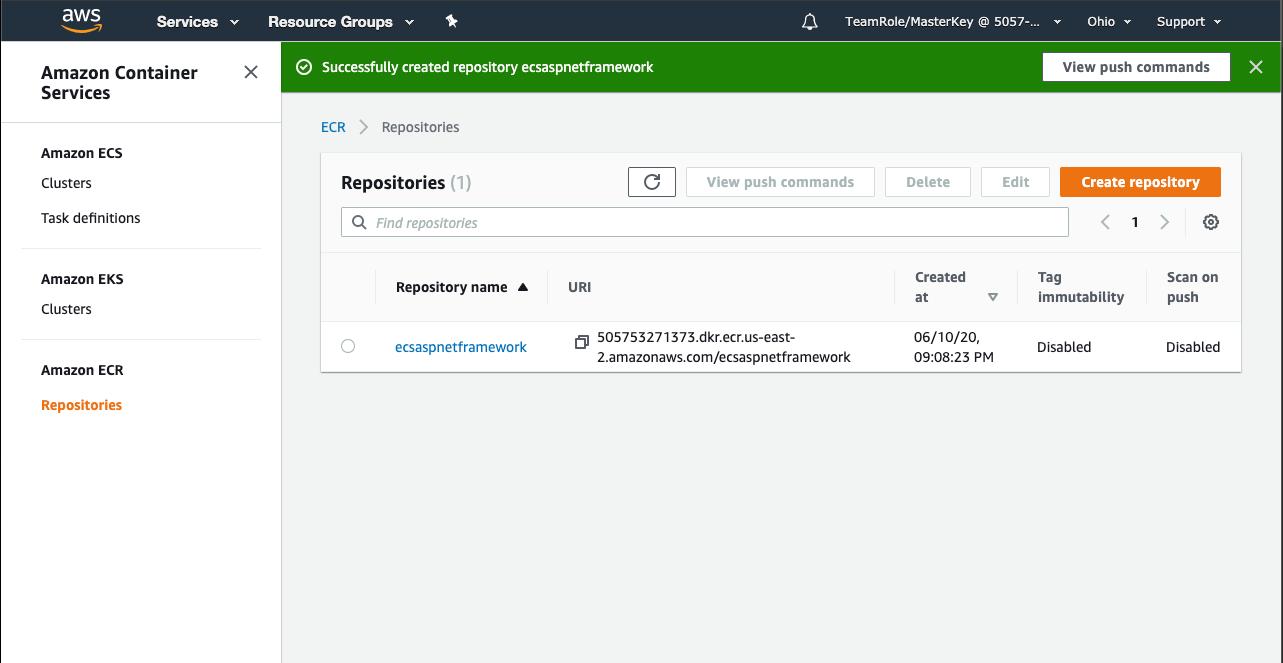
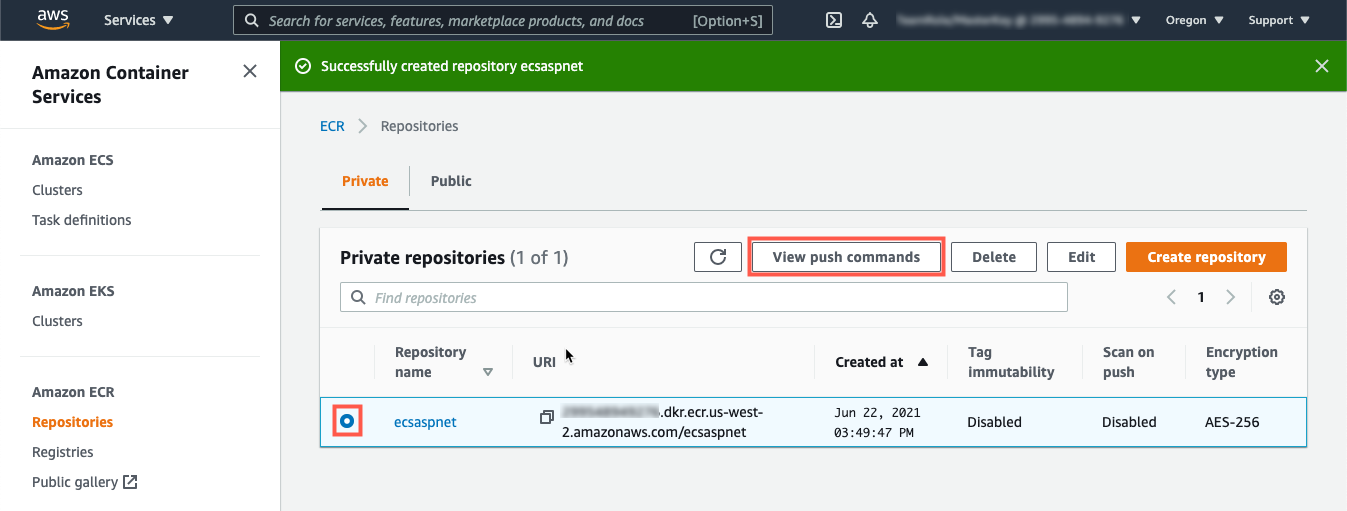
Updated to latest VS and ECS version

diff --git a/workshop/content/ecs-windows/publish-and-launch-ecs.md b/workshop/content/ecs-windows/publish-and-launch-ecs.md
@@ -4,77 +4,71 @@ chapter: false
 weight: 13
 ---
 
-
-
-
-
-Navigate to the ‘ECS-ASPNET’ project and right click and click ‘Publish’
-![publish-image](/images/ecs-windows/publish-image.png)
-
-Under Publish Target select ‘Container Registry’ and choose the Custom radio button and click ‘Create Profile’. If prompted for a registry URL simply put localhost
-![publish-container-registry](/images/ecs-windows/publish-container-registry.png)
-![publish-localhost](/images/ecs-windows/publish-localhost.png)
-
-Click 'Publish'
-![publish-localhost](/images/ecs-windows/publish-localhost.png)
-
-Navigate to the Amazon Elastic Container Registry service in the console. Create a new Amazon ECR repository for your image:
+Navigate to the Amazon Elastic Container Registry service in the console. Create a new Amazon ECR repository named `ecsaspnet` for your image:
 
 ![publish-ecr](/images/ecs-windows/publish-ecr.png)
 
 ![publish-ecr-listing](/images/ecs-windows/publish-ecr-listing.png)
 
-Click the ‘View push commands’ button at the top of the screen. If you don’t see that button, click your repository name (ex: ecsaspnet) then ‘View push commands’ (We will only use commands 3 and 4 from this pop-up)
+Click the ‘View push commands’ button at the top of the screen. 
 ![publish-ecr-push-commands](/images/ecs-windows/publish-ecr-push-commands.png)
 
-Open a Command Prompt or PowerShell **as an Administrator** and login to ECR (Modify the region if necessary) 
+Open a PowerShell **as an Administrator** command prompt and *execute the commands listed in the above dialog* from the ECS-ASPNET project's folder. Unless changed, it should be C:\Users\Administrators\source\repos\ECS-ASPNET\ECS-ASPNET.
 
 ```
-aws ecr get-login --no-include-email --region us-east-2
+cd C:\Users\Administrator\source\repos\ECS-ASPNET\ECS-ASPNET
+
+aws ecr get-login-password --region us-west-2 | docker login --username AWS --password-stdin <ACCOUNT ID>.dkr.ecr.us-west-2.amazonaws.com
+
+docker build -t ecsaspnet .
+
+docker tag ecsaspnet:latest <ACCOUNT ID>.dkr.ecr.us-west-2.amazonaws.com/ecsaspnet:latest
+
+docker push <ACCOUNT ID>.dkr.ecr.us-west-2.amazonaws.com/ecsaspnet:latest
+
 ```
 
-![publish-docker-login](/images/ecs-windows/publish-docker-login.png)
+You should see output similar output to:
 
-Enter the Docker log-in command from the last step
+![publish-to-ecr-complete](/images/ecs-windows/publish-to-ecr-complete.png)
 
-![publish-docker-login-succeed](/images/ecs-windows/publish-docker-login-succeed.png)
-
-You should see a similar output when the login is successful.
-
-Now we have to tag the container image was built in the local development environment with the ECR repository. Use the syntax from item #3 in the push commands pop-up window. For this example, we’ll use the :latest tag.
-
----
-**NOTE**
-
-In production, it is strongly recommended to use a tagging strategy based on SemVer or repo commit hashes to avoid confusion
-
----
-
-**Example**
-```
-docker tag ecsaspnetframework:latest 505753271373.dkr.ecr.us-east-2.amazonaws.com/ecsaspnetframework:latest
-```
-
-Now we need to run the docker push command to push the newly created image to the ECR repository (item #4 in the push commands pop-up window).
-
-**Example**
-```
-docker push 505753271373.dkr.ecr.us-east-2.amazonaws.com/ecsaspnetframework:latest
-```
-![publish-push](/images/ecs-windows/publish-push.png)
-
-Record the image name and tag for the CloudFormation in the final step below
+Record the ECR tag from the docker push command above (Similar to `<ACCOUNT ID>`.dkr.ecr.us-west-2.amazonaws.com/ecsaspnet:latest) so that you reference it when deploying the CloudFormation template below.
 
 Let's deploy the ASP.Net application to the ECS Cluster with the CloudFormation template that we downloaded earlier
+
+Navigate to the CloudFormation Console and create a new stack
+
+![create-cloudformation-stack](/images/ecs-windows/create-cloudformation-stack.png)
+
+Select the previously downloaded ecs.yaml file.
+
+![create-cloudformation-stack-step1](/images/ecs-windows/create-cloudformation-stack-step1.png)
 
 The required CloudFormation Parameters include the following:
 
 | Parameter               | Value                                        |
 | ----------------------- | -------------------------------------------- |
 | AppName	              | ecswinservice (or any name of your choosing) |
-| ECSCluster              | **retrieve from recorded values**            |
-| ECSImageName            | **retrieve from recorded values**            |
+| ECSCluster              | **retrieve from recorded values** (It should be ECS-ASPNET-Framework unless you changed it)           |
+| ECSImageName            | **retrieve from recorded values** (Similar to `<ACCOUNT ID>`.dkr.ecr.us-west-2.amazonaws.com/ecsaspnet:latest) |
 | EcsClusterSecurityGroup | **retrieve from recorded values**            |
 | SubnetID                | **retrieve from recorded values**            |
 | VpcId	                  | **retrieve from recorded values**            |
 
+![create-cloudformation-stack-step2](/images/ecs-windows/create-cloudformation-stack-step2.png)
+
+Click Next on Step 3 of the Create Stack Wizard
+
+![create-cloudformation-stack-step3](/images/ecs-windows/create-cloudformation-stack-step3.png)
+
+In Step 4, acknowledge that IAM resources will be created and click Create Stack
+
+![create-cloudformation-stack-final-step](/images/ecs-windows/create-cloudformation-stack-final-step.png)
+
+Once the Stack has successfully completed, switch the output tabs, and click on the URL for the ALB
+
+![create-cloudformation-stack-outputs](/images/ecs-windows/create-cloudformation-stack-outputs.png)
+
+Congratulations! You have successfully deployed the .NET Framework 4.8 application to ECS.
+
+![ecs-running-app](/images/ecs-windows/ecs-running-app.png)

diff --git a/workshop/content/ecs-windows/create-asp.md b/workshop/content/ecs-windows/create-asp.md
@@ -19,13 +19,35 @@ Select the ‘MVC’ project template, make sure ‘Enable Docker support’ is 
 Examine the automatically-generated Dockerfile. It may look like this
 
 ```docker
-FROM microsoft/aspnet
+FROM mcr.microsoft.com/dotnet/framework/aspnet:4.8-windowsservercore-ltsc2019
 ARG source
 WORKDIR /inetpub/wwwroot
 COPY ${source:-obj/Docker/publish} .
 ```
 
+Replace it with the following content
 
+```docker
+#Depending on the operating system of the host machines(s) that will build or run the containers, the image specified in the FROM statement may need to be changed.
+#For more information, please see https://aka.ms/containercompat 
+FROM mcr.microsoft.com/dotnet/framework/aspnet:4.8-windowsservercore-ltsc2019 AS base
+ARG source
 
-Build and run the project to ensure it starts up without error.
+FROM mcr.microsoft.com/dotnet/framework/sdk:4.8 AS build
+WORKDIR /app
+COPY . .
+RUN nuget restore -PackagesDirectory ../packages; msbuild /p:Configuration=Release /p:publishUrl=/out /p:DeleteExistingFiles=True /p:DeployOnBuild=True /p:DeployDefaultTarget=WebPublish /p:WebPublishMethod=FileSystem 
 
+# copy build artifacts into runtime image
+FROM base as final
+WORKDIR /inetpub/wwwroot
+COPY --from=build /out .
+```
+
+Next edit the `.dockerignore` file, removing the first line containing the '*' character. The resulting file should look like the below.
+
+![dockerignore-edited](/images/ecs-windows/dockerignore-edited.png)
+
+Build and run the project to ensure it starts up without error. This make take some time as the base Docker images must be downloaded.
+
+![visual-studio-new-asp](/images/ecs-windows/netfx-app-running.png)

diff --git a/workshop/content/ecs-windows/create-cluster.md b/workshop/content/ecs-windows/create-cluster.md
@@ -17,9 +17,22 @@ Select ‘EC2 Windows + Networking’ and click ‘Next Step’
 
 ![ecs-windows](/images/ecs-windows/ecs-windows.png)
 
-For Cluster name specify ‘ECS-ASPNET-Framework’, change EC2 Instance type to ‘m5.large’, and change ‘Number of instances’ to 3. Accept the remainder of the defaults and click ‘Create’.
+Provide the following details in the Create Cluster page:
 
-Wait several minutes while the ECS Cluster is being created. When all three boxes are green, record the following values for later use in Notepad or some other program:
+| Field |
+| -----               | ---- |
+| Cluster Name        | ECS-ASPNET-Framework |
+| EC2 Instance type   | m5.large |
+| Number of instances | 3 |
+| All other fields    | Keep defaults |
+
+![ecs-create-cluster](/images/ecs-windows/ecs-create-cluster.png)
+
+**Click ‘Create’**
+
+Wait several minutes while the ECS Cluster is being created. 
+
+When all three boxes are green, **record the following values for later use in Notepad or some other program**:
 
 | Parameters                                                             |
 | ---------------------------------------------------------------------- |

diff --git a/workshop/content/ecs-windows/gettingstarted.md b/workshop/content/ecs-windows/gettingstarted.md
@@ -15,9 +15,9 @@ Install [Microsoft Visual Studio 2019](https://visualstudio.microsoft.com/downlo
 
 Install [Docker Desktop for Windows](https://hub.docker.com/editions/community/docker-ce-desktop-windows/)
 
-Download the CloudFormation template
+Download the CloudFormation template. Open a PowerShell command prompt and execute the following command.
 
 
 ```
-wget https://raw.githubusercontent.com/trevorrobertsjr/ecs-service-automation/master/asp_ecs_service_deploy.yaml -outfile ecs.yaml
+wget https://raw.githubusercontent.com/trevorrobertsjr/ecs-service-automation/master/asp_ecs_service_deploy.yaml -outfile $HOME\Downloads\ecs.yaml
 ```
